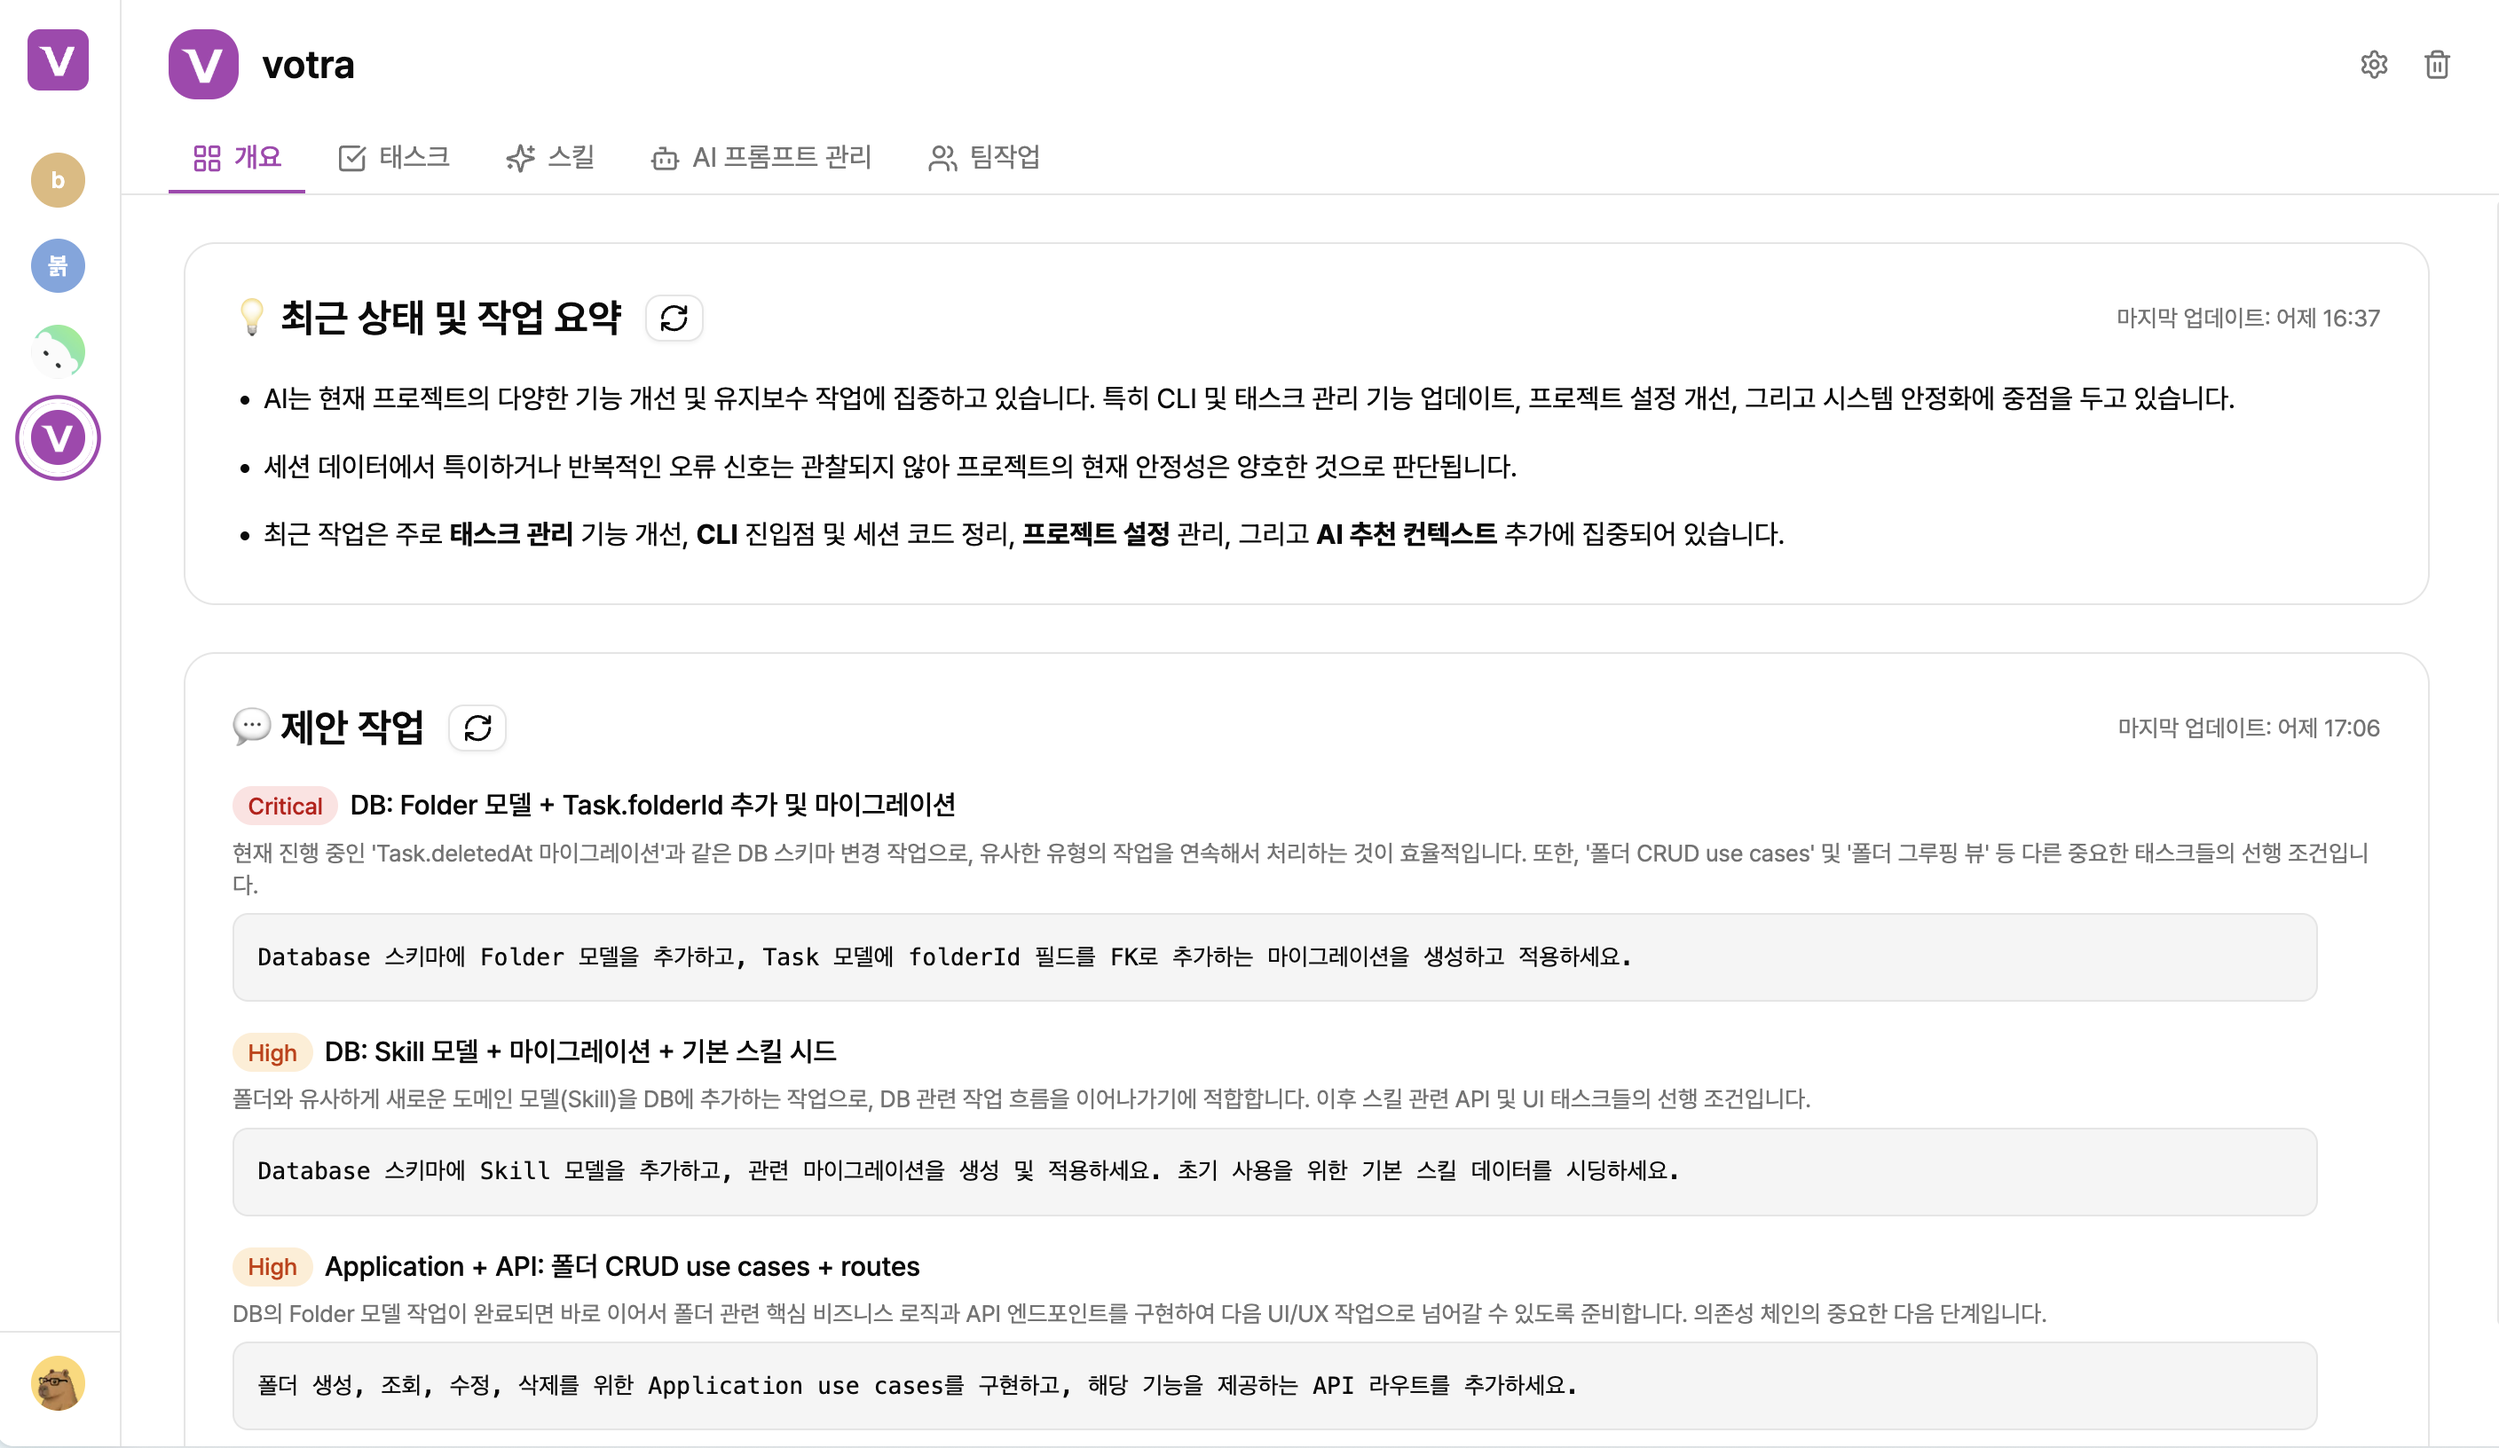
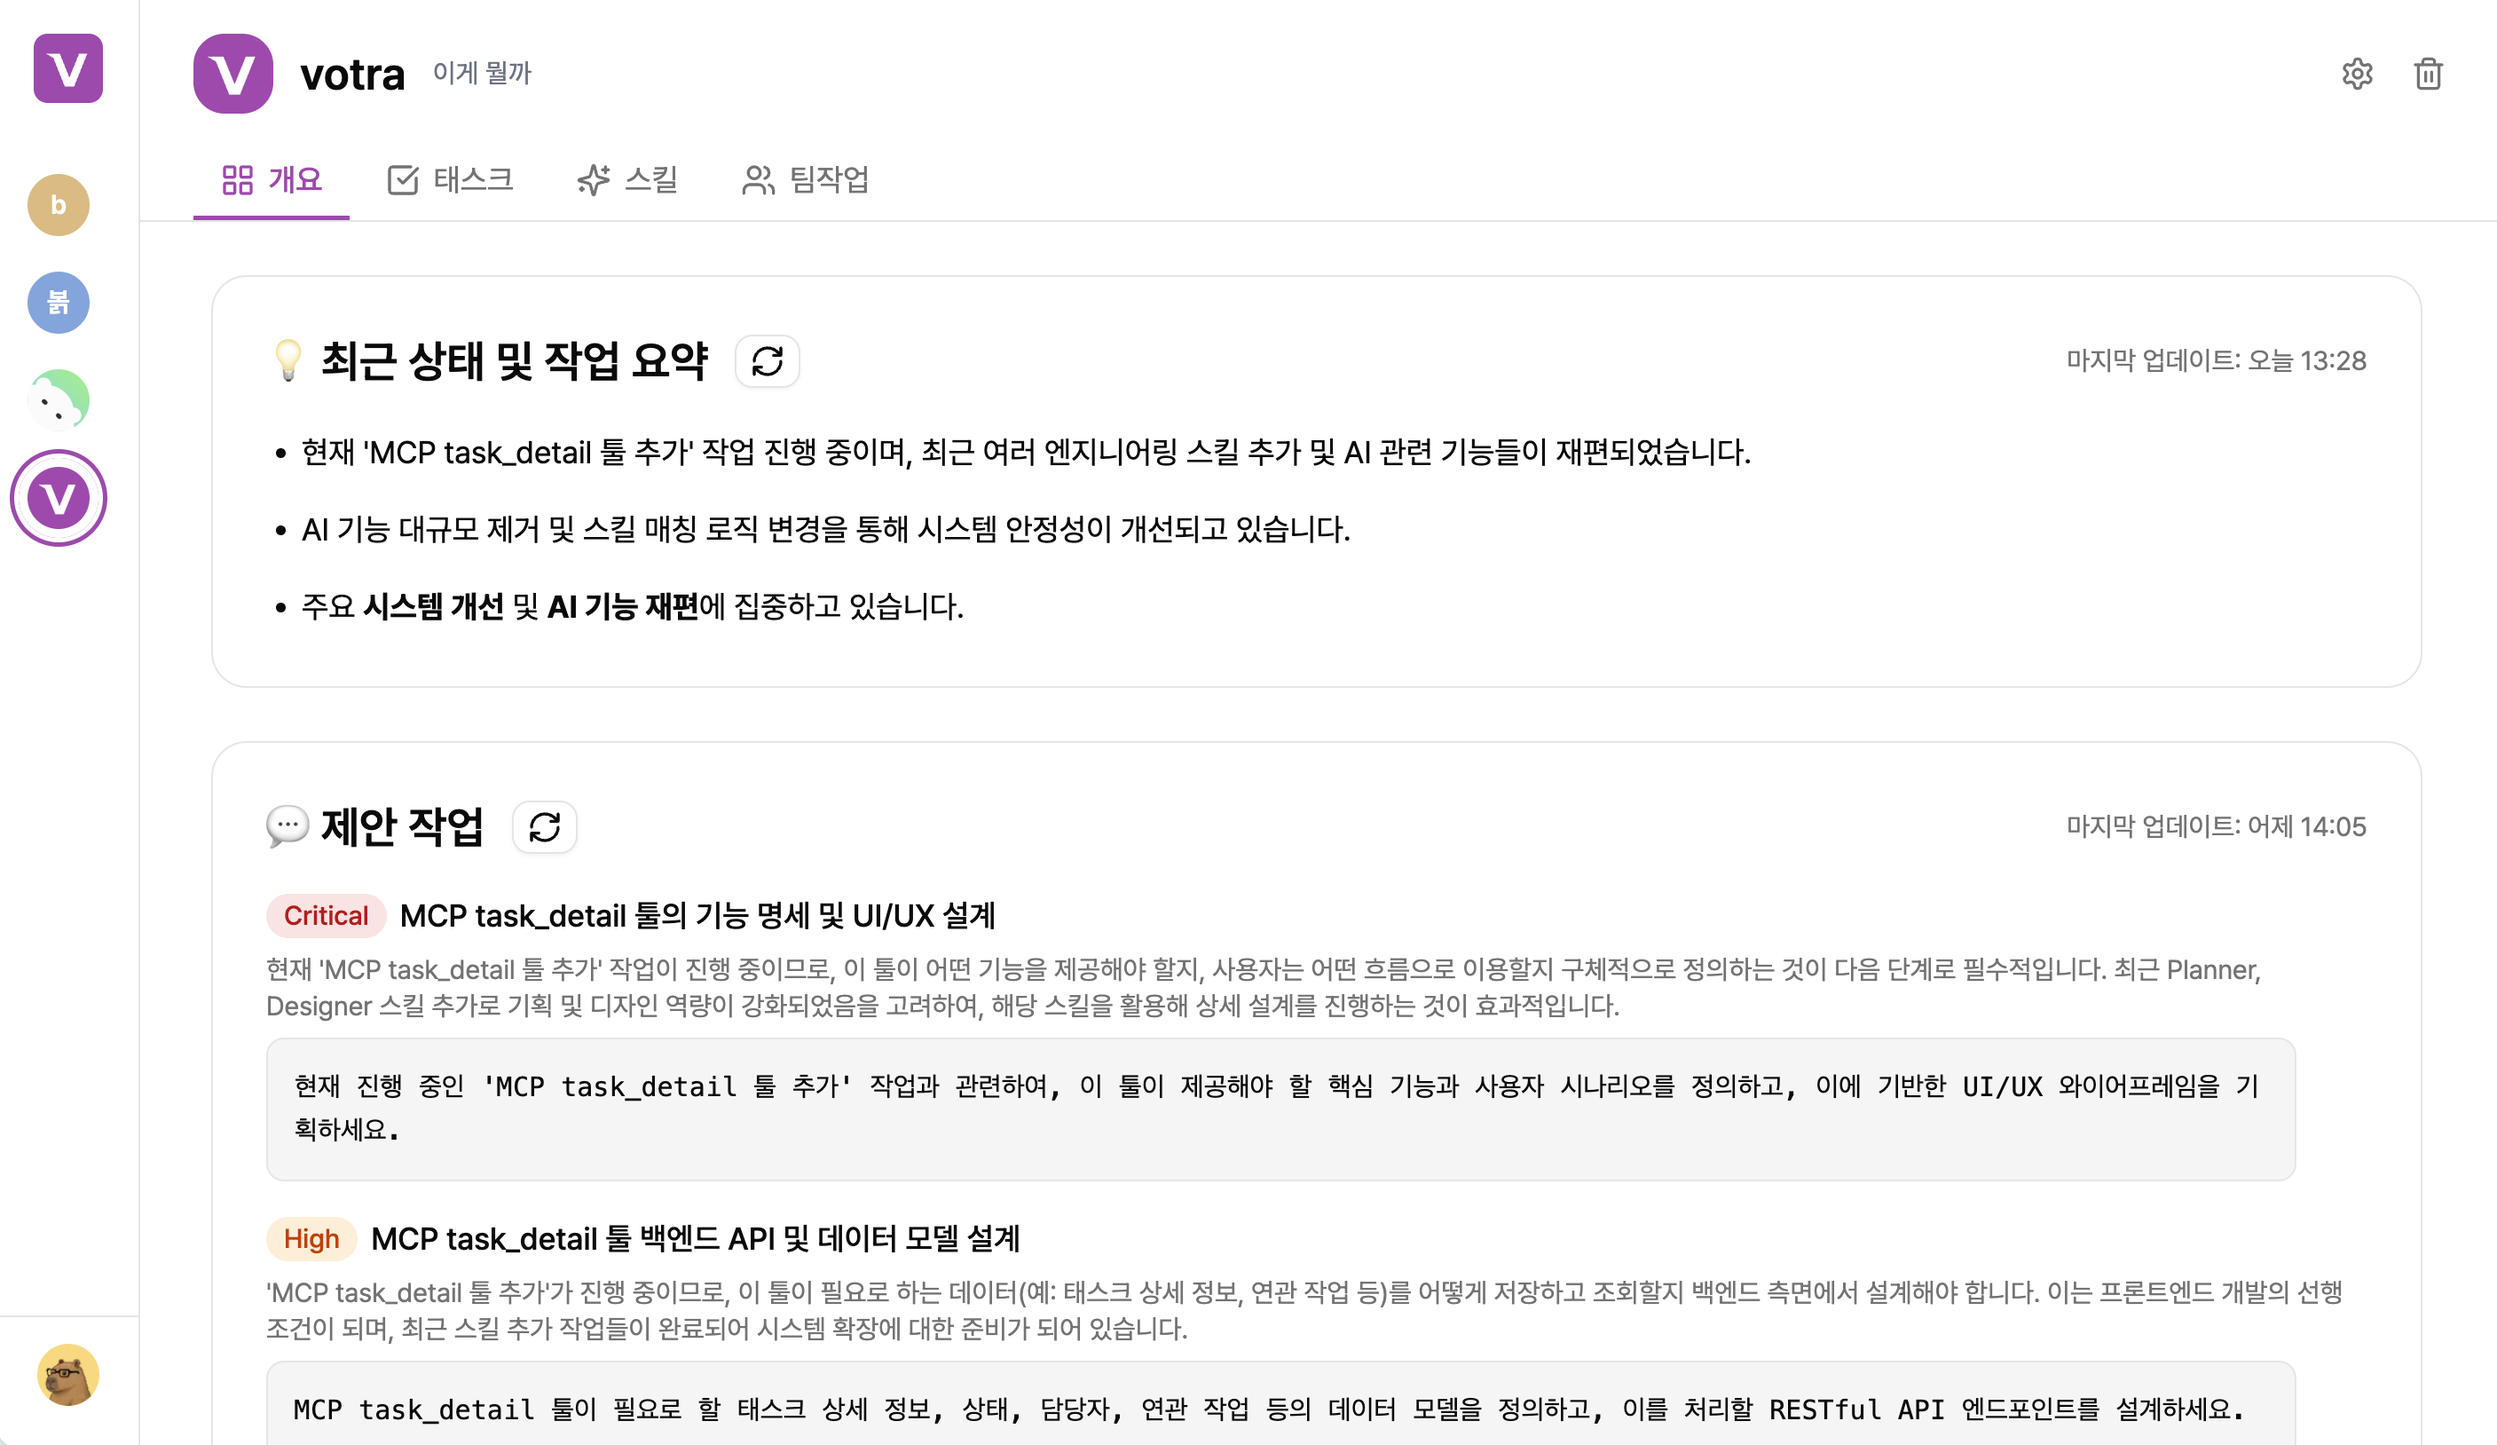
fix(auth): LandingGuide 리스트 key prop Fragment로 이동

diff --git a/src/components/auth/LandingGuide.tsx b/src/components/auth/LandingGuide.tsx
@@ -2,7 +2,7 @@
 
 import Image from "next/image";
 import { Check, Copy, Terminal } from "lucide-react";
-import { useEffect, useRef, useState } from "react";
+import { Fragment, useEffect, useRef, useState } from "react";
 
 import { AxhubSignInButton } from "@/components/auth/AxhubSignInButton";
 import { GoogleSignInButton } from "@/components/auth/GoogleSignInButton";
@@ -129,11 +129,11 @@ function SocialLoginContent() {
         </div>
       </div>
       <Image
-        src="/images/guide/tab-overview.png"
+        src="/assets/images/guide/tab-overview.png"
         alt="votra 대시보드 미리보기"
         width={600}
         height={400}
-        className="w-full rounded-xl"
+        className="w-full rounded-xl shadow-lg"
       />
     </div>
   );
@@ -160,10 +160,10 @@ function McpInstallContent() {
             ["votra install antigravity", "Antigravity"],
             ["votra install all", "모든 에이전트에 한번에 등록"],
           ].map(([cmd, desc]) => (
-            <>
-              <code key={cmd} className="text-foreground">{cmd}</code>
-              <span key={desc} className="text-muted-foreground"># {desc}</span>
-            </>
+            <Fragment key={cmd}>
+              <code className="text-foreground">{cmd}</code>
+              <span className="text-muted-foreground"># {desc}</span>
+            </Fragment>
           ))}
         </div>
       </Step>
